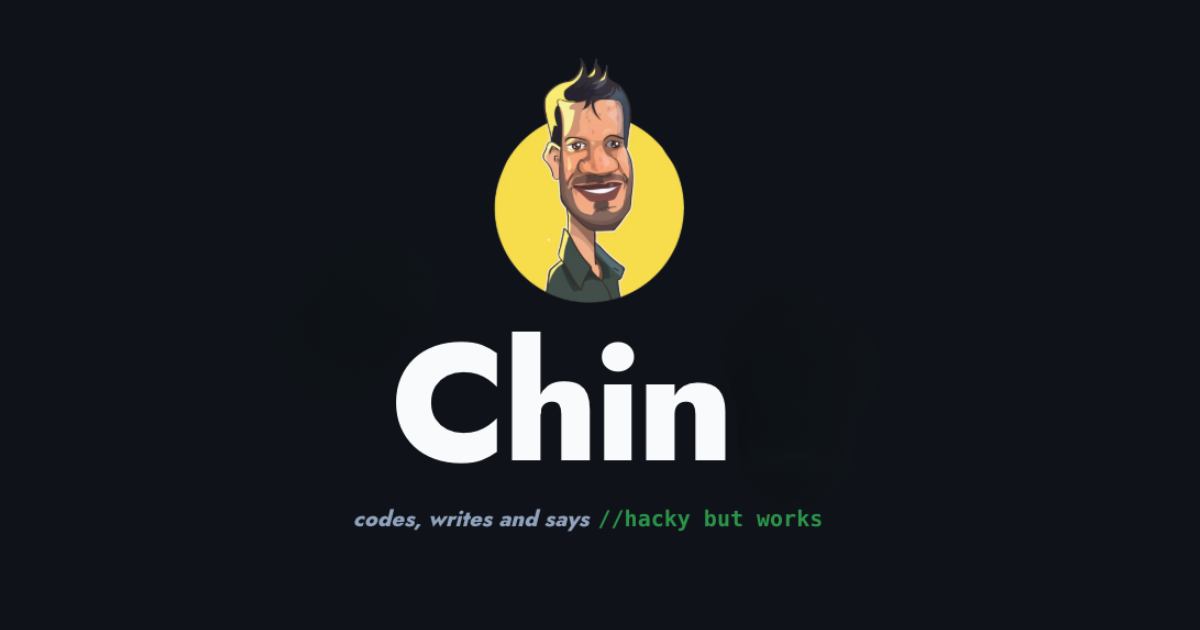
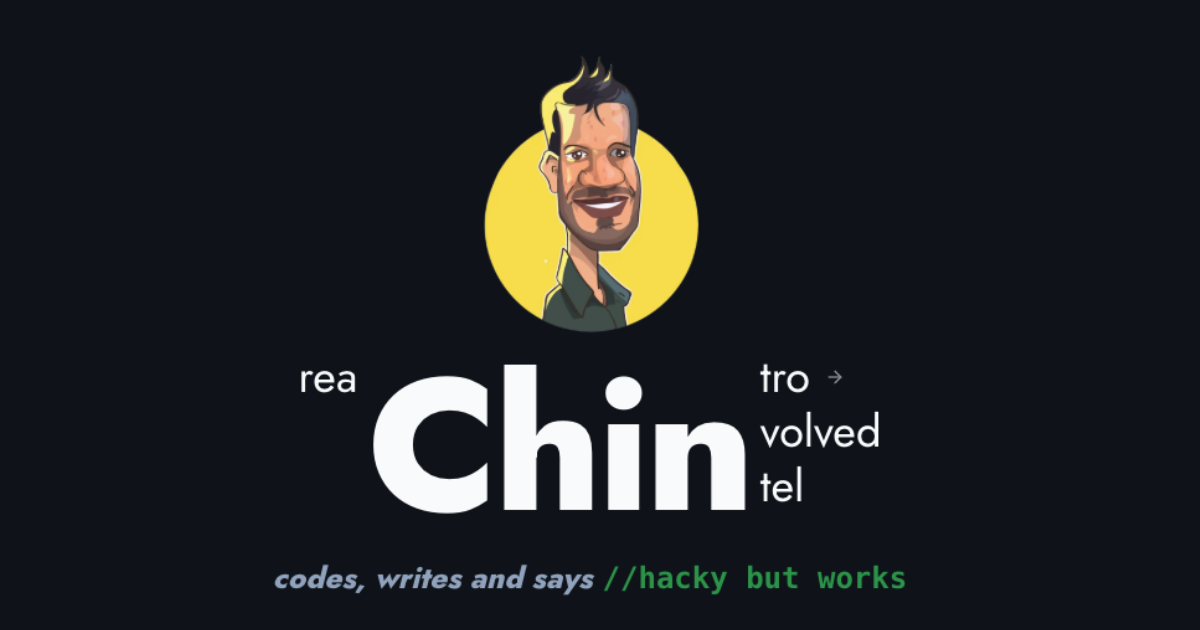
updated mobile view

Changed region(s): [[0.2467, 0.0905, 0.74, 0.8444], [0.2158, 0.9048, 0.7708, 0.9349]]

diff --git a/app/page.tsx b/app/page.tsx
@@ -23,7 +23,7 @@ export default function Home() {
   const [hoveredNav, setHoveredNav] = useState<string | null>(null);
 
   return (
-    <div className="flex flex-col items-center min-h-screen p-4 sm:p-8 pt-0 pb-12 sm:pb-20 gap-8 sm:gap-16 font-[family-name:var(--font-geist-sans)]  text-foreground transition-colors duration-300">
+    <div className="flex flex-col items-center min-h-screen p-0 sm:p-8 pt-0 pb-12 sm:pb-20 gap-8 sm:gap-16 font-[family-name:var(--font-geist-sans)]  text-foreground transition-colors duration-300">
       <TitleMessage messages={messages} />
 
       <main className="flex flex-col -mt-20 items-center justify-center w-full h-screen max-w-6xl mx-auto">
@@ -72,11 +72,11 @@ export default function Home() {
             delay={1.2}
             initialY={10}
             shouldAnimate={shouldAnimate}
-            className="text-base sm:text-xl italic font-bold mt-4 px-2 sm:px-4 max-w-[500px] leading-tight text-center text-text-secondary"
+            className="text-sm sm:text-2xl italic font-bold mt-4 px-2 sm:px-4 max-w-[600px] leading-tight text-center text-text-secondary"
             initialOpacity={0}
           >
             codes, writes and says
-            <span className="font-mono text-base sm:text-xl ml-2 text-success not-italic opacity-70 block sm:inline">{`//hacky but works`}</span>
+            <span className="font-mono text-sm sm:text-2xl ml-2 text-success not-italic opacity-70 block sm:inline">{`//hacky but works`}</span>
           </MotionText>
         </div>
       </main>

diff --git a/components/chinvolved/experience.tsx b/components/chinvolved/experience.tsx
@@ -54,12 +54,12 @@ export default function Experience() {
           >
             <div>
               <div className="flex justify-between items-start mb-1">
-                <h3 className="text-2xl text-foreground group-hover:text-primary transition-colors duration-300">
+                <h3 className="text-md sm:text-2xl text-foreground group-hover:text-primary transition-colors duration-300">
                   {experience.title}
                 </h3>
               </div>
               {experience.company && (
-                <p className="text-md text-muted-foreground mb-1">
+                <p className="text-sm sm:text-md text-muted-foreground mb-1">
                   {experience.companyLink ? (
                     <a 
                       href={experience.companyLink}
@@ -90,12 +90,12 @@ export default function Experience() {
                   )}
                 </p>
               )}
-              <p className="text-sm text-muted-foreground mb-3">
+              <p className="text-xs sm:text-sm text-muted-foreground mb-3">
                 {experience.period}
               </p>
               <ul className="space-y-2">
                 {experience.description.map((item, idx) => (
-                  <li key={idx} className="text-muted-foreground text-lg leading-relaxed">
+                  <li key={idx} className="text-muted-foreground text-sm sm:text-md leading-relaxed">
                     • {item}
                   </li>
                 ))}

diff --git a/app/layout.tsx b/app/layout.tsx
@@ -16,10 +16,10 @@ export const metadata: Metadata = {
   description: 'Chin\'s personal website',
   metadataBase: new URL('https://chin4.com'), // Important for absolute URLs
   openGraph: {
-    title: 'My Awesome Next.js App',
-    description: 'The best app ever built with Next.js',
-    url: 'https://yourwebsite.com',
-    siteName: 'My Awesome App',
+    title: 'Chin4',
+    description: 'Chin\'s personal website',
+    url: 'https://chin4.com',
+    siteName: 'Chin4',
     images: [
       {
         url: '/chin-og.png',
@@ -30,12 +30,6 @@ export const metadata: Metadata = {
     ],
     locale: 'en_US',
     type: 'website',
-  },
-  twitter: {
-    card: 'summary_large_image',
-    title: 'My Awesome Next.js App',
-    description: 'The best app ever built with Next.js',
-    images: ['/twitter-image.jpg'],
   },
 };
 

diff --git a/components/chintro/git-career.tsx b/components/chintro/git-career.tsx
@@ -386,7 +386,7 @@ export default function GitCareer() {
       {/* Terminal Content */}
       <div className="bg-surface-tertiary text-success p-2 sm:p-4">
         {/* Command Line Header */}
-        <div className="flex flex-col sm:flex-row sm:items-center justify-between gap-2 sm:gap-0 mb-4">
+        <div className="flex flex-col text-sm sm:text-base sm:flex-row sm:items-center justify-between gap-2 sm:gap-0 mb-4">
           <div className="flex items-center gap-2">
             <span className="text-info font-bold text-sm sm:text-base">~/life-story</span>
             <span className="text-text-tertiary">(</span>

diff --git a/components/chintro/about.tsx b/components/chintro/about.tsx
@@ -5,7 +5,7 @@ import Link from "next/link";
 export default function About() {
   return (
     <section className="mb-16">
-      <div className="text-xl text-foreground space-y-4">
+      <div className="text-sm sm:text-xl text-foreground text-justify space-y-4">
         <p>
           The most challenging question in an interview isn&apos;t about
           algorithms it&apos;s &quot;Tell me about yourself.&quot;
